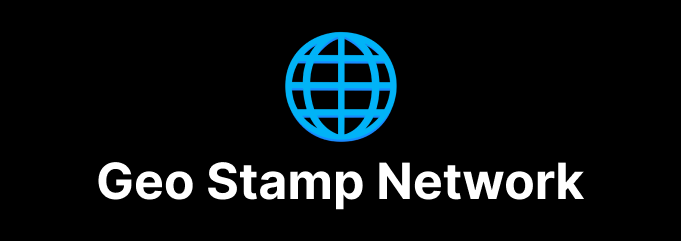
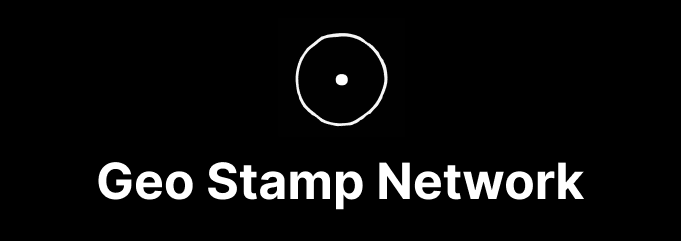
👌 IMPROVE: simplify

Changed region(s): [[0.4009, 0.1162, 0.5859, 0.61]]

diff --git a/app/components/Logo.tsx b/app/components/Logo.tsx
@@ -1,0 +1,29 @@
+import * as React from "react"
+const SvgComponent = (props) => (
+    <svg
+        xmlns="http://www.w3.org/2000/svg"
+        width={147}
+        height={148}
+        fill="none"
+        {...props}
+    >
+        <g fill="#fff" clipPath="url(#a)">
+            <path
+                fillRule="evenodd"
+                d="m33.089 12.355 8.949-6.815c2.107-.096 4.24-.834 6.368-1.57 1.577-.545 3.152-1.09 4.712-1.372C63.956.636 77.613-.787 88.49 1.672c6.33 1.432 12.509 3.124 18.021 6.687 1.165.753 2.494 1.896 3.889 3.096 2.623 2.256 5.481 4.713 7.922 5.16l5.114 3.834 9.801 10.649c.784 3.271 4.687 9.735 7.245 11.927.31 1.71 1.15 3.34 1.993 4.975.673 1.307 1.348 2.617 1.754 3.97 2.157 7.197 3.248 17.245 2.573 24.707-.507 5.604-2.379 11.4-4.423 16.629-.353.904-.801 1.851-1.259 2.822-1.074 2.276-2.209 4.681-2.343 6.959l-6.855 11.453-12.748 13.679c-2.697-.1-5.792 2.784-8.585 5.388-1.528 1.425-2.967 2.765-4.2 3.486-.359.21-.887.407-1.449.617-1.311.489-2.812 1.049-2.812 2.01l-3.836 2.556-8.95 3.833-22.281 1.567-17.777-3.843-8.097-3.261-1.279-.852c-2.5-2.908-9.13-8.541-12.785-9.371L20 124.225l-7.366-7.507-2.785-4.686-4.034-8.093c.018-2.085-.836-4.185-1.685-6.274-.58-1.427-1.158-2.848-1.454-4.254C1.28 86.78.428 79.198.297 72.417.145 64.543 2.07 56.507 4.175 48.99c.278-.989.71-1.963 1.143-2.936.572-1.287 1.143-2.57 1.349-3.88l2.13-3.834 9.57-14.02 7.903-6.427 1.705-1.278 2.13-1.704 2.984-2.556Zm29.029-5.548c2.534-.163 5.075-.326 7.62-.66 37.657-4.942 72.303 30.292 72.303 67.122 0 7.003-2.374 13.566-4.789 20.02-6.121 16.364-15.009 27.222-29.585 36.918-.983.654-1.982 1.336-2.997 2.029-6.235 4.257-13.067 8.921-20.442 9.917-12.582 1.699-26.765 1.114-38.355-4.678-4.628-2.313-8.672-5.616-12.681-8.889a274.12 274.12 0 0 0-3.087-2.496l-.958-.758c-5.075-4.011-9.928-7.847-13.64-13.3-16.78-24.652-13.97-62.615 6.115-84.341 1.967-2.128 4.324-3.813 6.68-5.497 1.187-.847 2.373-1.695 3.508-2.598 1.015-.808 2.018-1.65 3.024-2.494 3.897-3.27 7.847-6.584 12.744-8.142 4.805-1.528 9.659-1.84 14.54-2.153Z"
+                clipRule="evenodd"
+            />
+            <path
+                stroke="#fff"
+                strokeWidth={2}
+                d="M74 66.85c5.333 0 8 2.433 8 7.3s-2.667 7.3-8 7.3-8-2.433-8-7.3 2.667-7.3 8-7.3Z"
+            />
+        </g>
+        <defs>
+            <clipPath id="a">
+                <path fill="#fff" d="M0 0h147v148H0z" />
+            </clipPath>
+        </defs>
+    </svg>
+)
+export default SvgComponent

diff --git a/app/page.tsx b/app/page.tsx
@@ -1,6 +1,7 @@
 import Link from "next/link";
 import React from "react";
 import Particles from "./components/particles";
+import Logo from "./components/Logo";
 
 const navigation = [
 	{ name: "Projects", href: "/projects" },
@@ -28,15 +29,18 @@ export default function Home() {
 				className="absolute inset-0 -z-10 animate-fade-in"
 				quantity={100}
 			/>
+			<div className="center">
+				<Logo />
+			</div>
 			<h1 className="z-10 text-4xl text-transparent duration-1000 bg-white cursor-default text-edge-outline animate-title font-display sm:text-6xl md:text-9xl whitespace-nowrap bg-clip-text ">
 				Geo Stamp Network
 			</h1>
 
 			<div className="hidden w-screen h-px animate-glow md:block animate-fade-right bg-gradient-to-r from-zinc-300/0 via-zinc-300/50 to-zinc-300/0" />
 			<div className="my-16 text-center animate-fade-in">
-				<div className="override">
+				{/* <div className="override">
 					<iframe width="640" height="480" src="https://sketchfab.com/models/c54ea3927b854b76b531993daa793f2e/embed?autostart=1&preload=1&transparent=1&ui_theme=dark&ui_infos=0" allow="autoplay; fullscreen; vr"></iframe>
-				</div>
+				</div> */}
 
 				<h2 className="text-sm text-zinc-500  align-bottom">
 					by{" "}
@@ -45,7 +49,7 @@ export default function Home() {
 						href="https://twitter.com/0xPetra"
 						className="underline duration-500 hover:text-zinc-300"
 					>
-						0xPetra
+						0xPetras
 					</Link>
 				</h2 >
 			</div>
